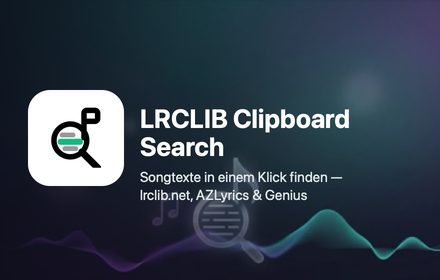
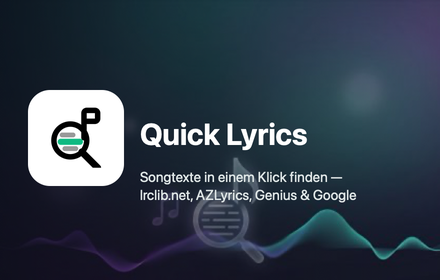
Rename extension to Quick Lyrics
Previous name 'LRCLIB Clipboard Search' overstated lrclib.net (one of
four sources) and the clipboard (a supporting feature, not the core
purpose). Updated manifest name/description, README, CLAUDE.md and
the promo tile accordingly.

Changed region(s): [[0.2955, 0.3714, 0.7977, 0.5714], [0.5614, 0.6571, 0.8273, 0.7429]]

diff --git a/CLAUDE.md b/CLAUDE.md
@@ -1,7 +1,13 @@
-# LRCLIB Clipboard Search — Design-Entscheidungen
+# Quick Lyrics — Design-Entscheidungen
 
 Chrome-Extension (Manifest V3), die einen Suchbegriff bei lrclib.net,
-azlyrics.com oder genius.com öffnet.
+azlyrics.com, genius.com oder Google öffnet.
+
+## Naming
+- Ursprünglich hieß die Extension „LRCLIB Clipboard Search“. Umbenannt zu
+  „Quick Lyrics“, weil lrclib.net nur eine von vier durchsuchbaren
+  Quellen ist (nicht die alleinige Kernfunktion) und die Zwischenablage
+  nur eine unterstützende Eingabehilfe ist, kein Namens-Feature.
 
 ## Architektur
 - Kein Background-Service-Worker: die gesamte Logik läuft im Popup
@@ -31,14 +37,17 @@ azlyrics.com oder genius.com öffnet.
 - genius.com: `https://genius.com/search?q=<query>`.
 
 ## Icons
-- Favicons der drei Ziel-Seiten (`icons/lrclib.png`, `icons/azlyrics.png`,
-  `icons/genius.png`) werden **lokal mitgeliefert**, nicht zur Laufzeit
-  von Google/den Zielseiten geladen — vermeidet Netzwerkfehler und
-  CSP-Probleme im Popup.
+- Favicons der vier Ziel-Seiten (`icons/lrclib.png`, `icons/azlyrics.png`,
+  `icons/genius.png`, `icons/google.png`) werden **lokal mitgeliefert**,
+  nicht zur Laufzeit von Google/den Zielseiten geladen — vermeidet
+  Netzwerkfehler und CSP-Probleme im Popup.
 - Das Extension-Icon selbst kommt aus `icon.png` (vom Nutzer geliefert)
   und wird per `sips` in 16/32/48/128px nach `icons/icon*.png`
   gerendert, da Chrome-Extension-Icons kein SVG unterstützen (Manifest
   V3 verlangt Raster-Formate).
+- Der Paste-Button nutzt `paste.png` (vom Nutzer geliefert, in
+  `icons/paste.png` kopiert) statt eines Emoji, und sitzt links vom
+  Eingabefeld statt rechts.
 
 ## Optik
 - `bg.jpeg` ist der Popup-Hintergrund (nicht nur im Suchfeld). Die

diff --git a/README.md b/README.md
@@ -1,19 +1,19 @@
-# LRCLIB Clipboard Search
+# Quick Lyrics
 
 Eine kleine Chrome-Extension (Manifest V3), um schnell nach Songtexten zu
-suchen — bei [lrclib.net](https://lrclib.net), [AZLyrics](https://www.azlyrics.com)
-oder [Genius](https://genius.com).
+suchen — über mehrere Datenbanken hinweg: [lrclib.net](https://lrclib.net),
+[AZLyrics](https://www.azlyrics.com), [Genius](https://genius.com) und Google.
 
 ## Funktionen
 
 - Klick auf das Extension-Icon öffnet ein Eingabefeld mit dem zuletzt
   verwendeten Suchbegriff.
-- 📋-Button fügt den Inhalt der Zwischenablage in das Eingabefeld ein
+- 📋-Button fügt bei Bedarf den Inhalt der Zwischenablage ein
   (kein automatisches Auslesen — du hast die Kontrolle).
 - „Suchen“ öffnet die Ergebnisseite bei lrclib.net in einem neuen Tab.
-- Drei zusätzliche Buttons (mit den Favicons der jeweiligen Seite)
-  suchen alternativ bei lrclib.net, AZLyrics oder Genius, falls einer
-  der Anbieter keinen Treffer hat.
+- Vier zusätzliche Buttons (mit den Favicons der jeweiligen Seite)
+  suchen alternativ bei lrclib.net, AZLyrics, Genius oder per Google
+  (`lyrics <Suchbegriff>`), falls eine Quelle keinen Treffer hat.
 - Der letzte Suchbegriff wird lokal gespeichert (`chrome.storage.local`)
   und beim nächsten Öffnen vorausgefüllt.
 
@@ -31,6 +31,7 @@ manifest.json   Manifest V3 Konfiguration
 popup.html      UI des Popups
 popup.js        Logik (Clipboard, Suche, Storage)
 icon.png        Quell-Icon der Extension
+paste.png       Quell-Icon des Paste-Buttons
 icons/          Generierte Extension-Icons + Favicons der Zielseiten
 bg.jpeg         Hintergrundbild des Popups
 ```
